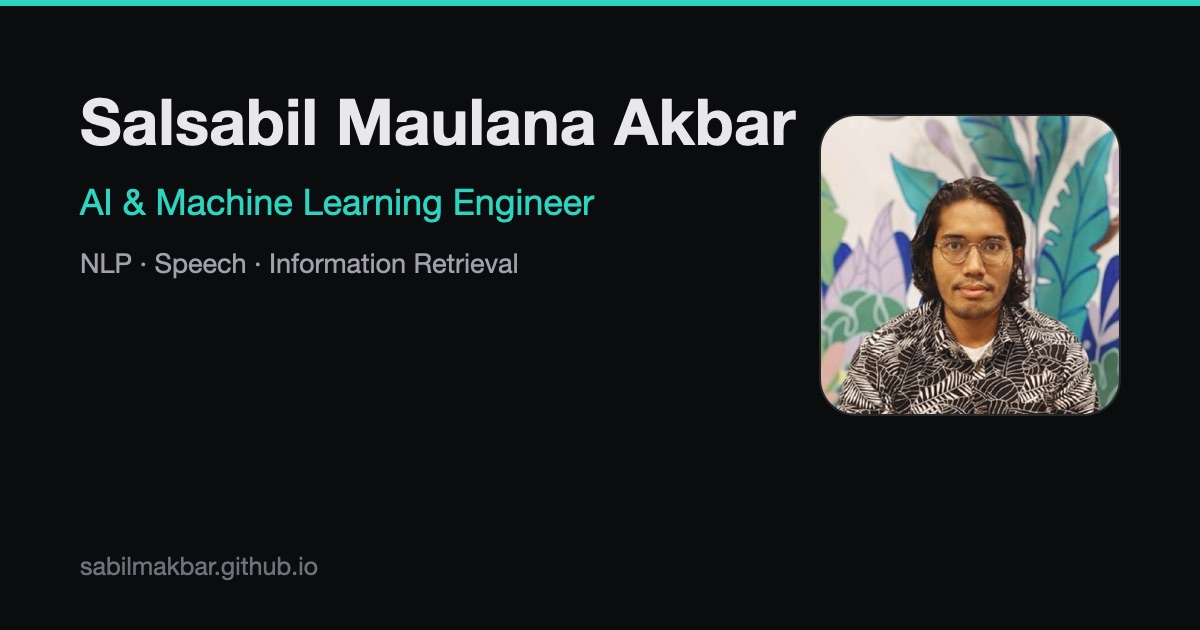
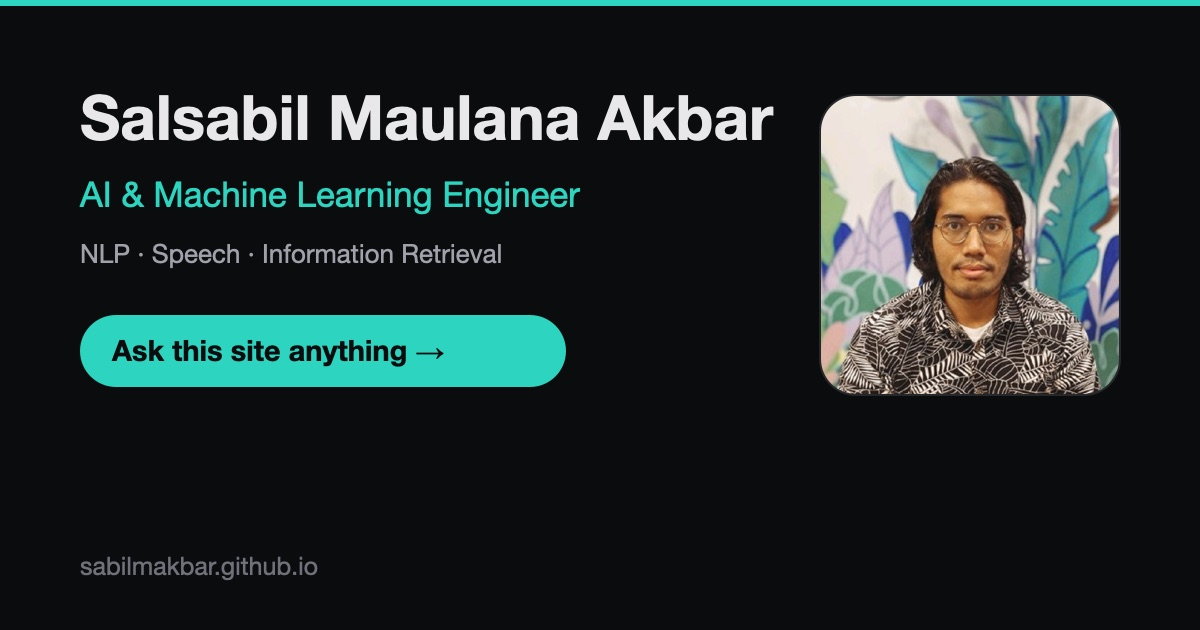
shorten meta descriptions and add a call to action on the preview card

diff --git a/tests/build.test.ts b/tests/build.test.ts
@@ -82,6 +82,19 @@ describe("built site", () => {
     }
   });
 
+  test("descriptions stay within what search and social actually show", () => {
+    // Google truncates near 160 characters; link previews often near 125.
+    for (const file of htmlFiles(dist)) {
+      const html = readFileSync(file, "utf8");
+      const where = file.replace(dist, "dist");
+      for (const pat of [/name="description" content="([^"]+)"/, /property="og:description" content="([^"]+)"/]) {
+        const text = html.match(pat)?.[1] ?? "";
+        assert.ok(text.length > 0, `empty description on ${where}`);
+        assert.ok(text.length <= 160, `description is ${text.length} chars on ${where}, keep it under 160`);
+      }
+    }
+  });
+
   test("the preview image is actually shipped", () => {
     const html = readFileSync(join(dist, "index.html"), "utf8");
     const img = html.match(/property="og:image" content="[^"]*(\/img\/[^"]+)"/)?.[1] ?? "";

diff --git a/src/data/profile.ts b/src/data/profile.ts
@@ -8,6 +8,10 @@ export const profile = {
   email: "maulana.1998@yahoo.co.id",
   avatar: "/img/profile.png",
   avatarAlt: "/img/profile-alt.jpg",
+  // Short on purpose: search results truncate near 160 characters and link
+  // previews near 125. The longer `blurb` below is for reading on the page.
+  metaDescription:
+    "AI & Machine Learning Engineer working on NLP, Speech, and Information Retrieval. Ask this site anything about my work, research, and background.",
   blurb:
     "AI professional with ~5 years of experience in Data Science & Machine Learning, applying a strong " +
     "mathematics foundation to deliver end-to-end AI solutions across NLP, Speech, Computer Vision, and " +
